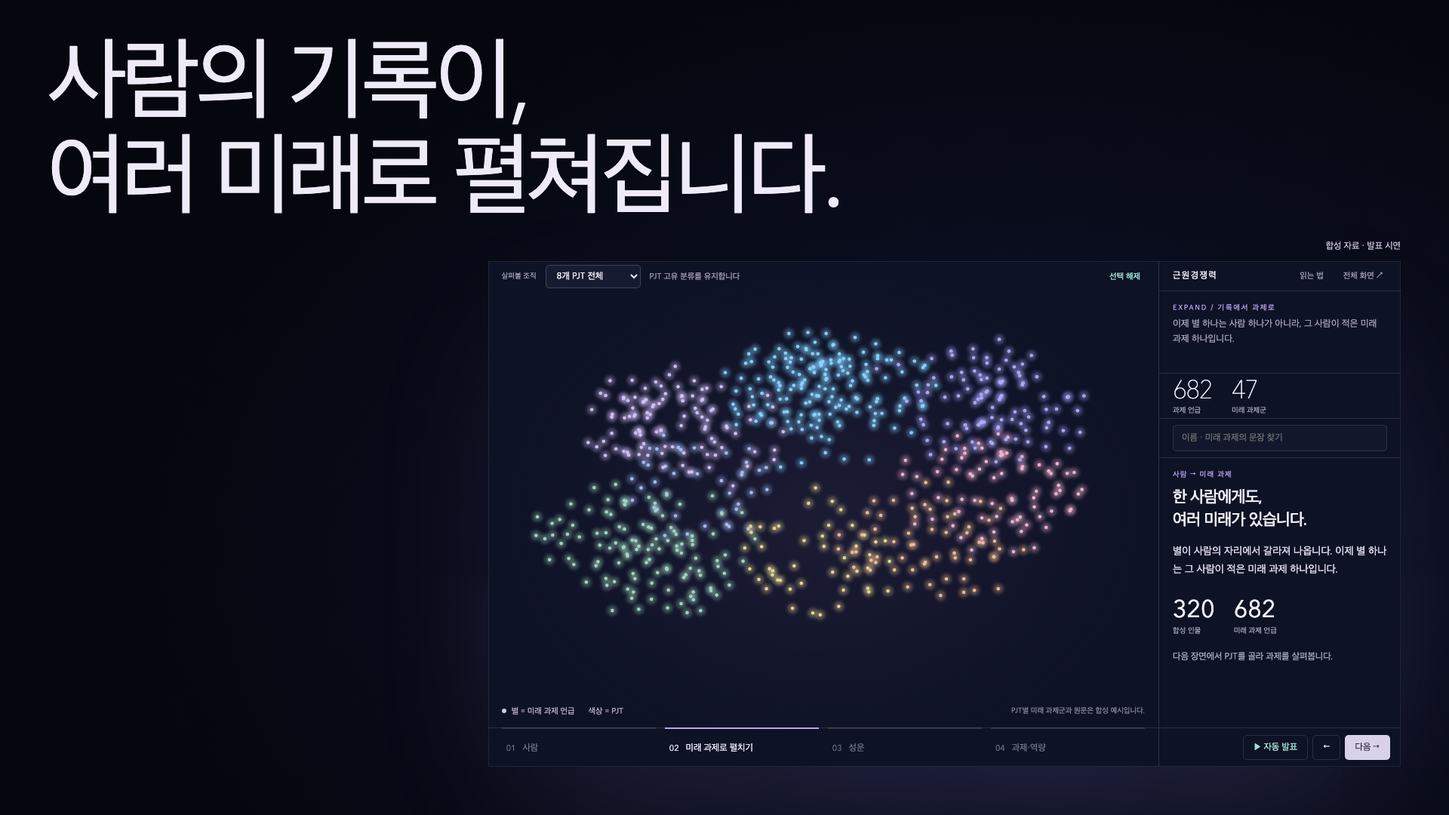
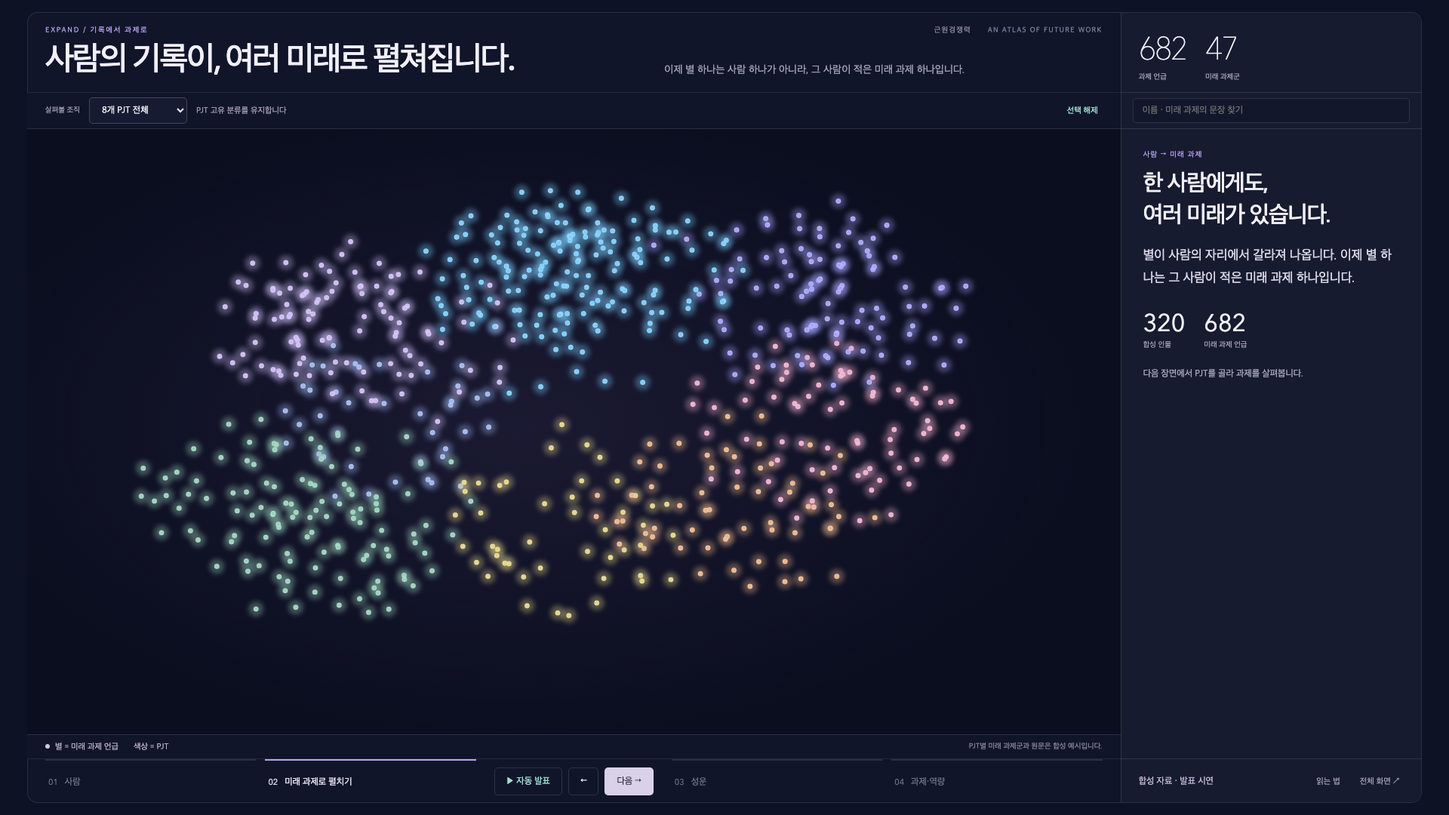
engine-opus round2 재시도: 「작업 현장」 — UI를 지도 이음매에 밀착, 클릭 반경 10.4→11.1px
15ab077 「초월적 여백」 폐기: 60% 여백이 지도를 71%로 줄여 클릭 반경이 7.4px로 줄었다.
템플릿을 15ab077^로 되돌린 뒤 live 레이아웃을 새로 썼다.

- nebula.html: @media(min-width:1001px) body:not(.story) 블록 하나. 카드 한 장 안에
  문장 띠(윗변) · 툴바 띠 · 지도 · 범례/각주 띠 · 트레이(단계 01 02 [조작] 03 04) + 레일
  (숫자 · 검색 · 패널 · 합성 표시/읽는 법/전체 화면). 오버레이 HUD 없음.
- 1920×1080 지도 1245×747 → 1337×802, 1600·1366에서도 기존 이상.
- JS 1줄: #synthetic-mark live에서도 표시.
- story 모드 규칙 무수정 — story 9비트 스크린샷 원래 템플릿과 바이트 동일.
- round2 README + 5컷(1920×1080) 교체.

diff --git a/nebula/templates/nebula.html b/nebula/templates/nebula.html
@@ -1,24 +1,47 @@
 <!doctype html><html lang="ko"><head><meta charset="utf-8"><meta name="viewport" content="width=device-width,initial-scale=1"><title>아직 오지 않은 일들 — 미래 과제의 성운</title>
 <style>
-:root{--bg:#0e1225;--void:#05060e;--text:#f1eff8;--sub:#a19eb8;--line:#ffffff20;--violet:#b8a3ed;--mint:#a1dfd0;--rose:#eeb3ce;--font:"Apple SD Gothic Neo","Malgun Gothic",sans-serif;--display:"Avenir Next",var(--font);--m:clamp(28px,3.34vw,64px);--h:62dvh;--rail:320px}*{box-sizing:border-box}body{margin:0;background:var(--bg);color:var(--text);font:14px var(--font)}button,input,select{font:inherit}button,select{cursor:pointer}button{color:inherit;border:0;background:none}button:hover{filter:brightness(1.25)}button:focus-visible,select:focus-visible,input:focus-visible,summary:focus-visible{outline:2px solid var(--mint);outline-offset:4px}button:disabled{opacity:.3;cursor:default}.brand{letter-spacing:.12em;font-size:12px}.brand span{display:none}.actions{display:flex;align-items:center;gap:14px}.badge{font-size:10px;color:#d0bfdc;border:1px solid #cbb9e848;padding:5px 9px;border-radius:20px}body:has(#synthetic-mark:not([hidden])) .badge{display:none}.actions button{font-size:11px;color:var(--sub)}select{background:#171b31;color:var(--text);padding:6px 28px 6px 10px;border:1px solid #bdb3dc44;border-radius:5px;font-size:12px;max-width:210px}svg{width:100%;height:100%;display:block;overflow:visible}.world{transform-origin:0 0;transition:transform 2s cubic-bezier(.22,.75,.18,1)}.person,.task{cursor:pointer;transition:transform 1.65s cubic-bezier(.22,.75,.18,1),opacity .7s}.person circle{stroke:#fffc;stroke-width:.5}.person text,.task text{font:12px var(--font);fill:#f1eff8;paint-order:stroke;stroke:#17182d;stroke-width:4px;pointer-events:none}.task .core{stroke:#fff8;stroke-width:.55}.task.selected .core{stroke:white;stroke-width:2;r:6}.task .hit{fill:transparent}.task:focus-visible .core,.person:focus-visible circle{stroke:white;stroke-width:3}.fog{transition:opacity 1s;pointer-events:none}.nebula-label{cursor:pointer;transition:opacity .6s}.nebula-label text{font:14px var(--font);fill:#d9d2ee;paint-order:stroke;stroke:#16162c;stroke-width:4px}.nebula-label .tiny{font-size:10px;fill:#aaa0bd}.nebula-label:hover text{fill:white}.time-ring{fill:none;stroke:#afa8d238;stroke-width:1;stroke-dasharray:3 7}.time-label{fill:#b0a3c6;font:12px var(--font)}.origin{fill:#ded6ef;font:11px var(--font)}.skill{cursor:pointer}.skill text{font:14px var(--font);fill:var(--text);text-anchor:middle}.skill .small{font-size:11px;fill:#afb7c5}.skill-line{stroke:#b4c6d844;stroke-width:1;fill:none}.skill:hover .bubble,.skill:focus-visible .bubble{stroke:white;stroke-width:2.5}.skill .number{font:400 28px var(--display)}.tooltip{position:absolute;background:#eeebf5;color:#242138;max-width:300px;padding:10px 14px;font-size:12px;line-height:1.6;pointer-events:none;border-radius:5px;box-shadow:0 10px 40px #0006;z-index:9}.kicker{font-size:10px;color:var(--violet);letter-spacing:.12em;margin-bottom:10px}.panel h2{font-size:22px;line-height:1.35;font-weight:500;letter-spacing:-.04em;margin:0 0 11px;word-break:keep-all}.panel p{font-size:12px;color:#aaaac0;line-height:1.8}.panel h3{font-size:12px;font-weight:500;margin:20px 0 8px}.panel .large{font-size:14px;color:#d9d6e5;line-height:1.75}.row{width:100%;text-align:left;padding:11px 0;border-top:1px solid var(--line);border-radius:0;display:flex;align-items:center;gap:10px}.row .dot{height:6px;width:6px;border-radius:50%;flex-shrink:0}.row b{font-weight:500;font-size:12px;flex:1;line-height:1.6}.row small{font-size:10px;color:#89879e;display:block}.row .count{color:#c6badb;font:15px var(--display)}.chip{display:inline-block;font-size:10px;color:#d1c5e3;padding:5px 8px;border:1px solid #aaa0bc44;border-radius:4px;margin:0 5px 7px 0}.quote{margin:15px 0 10px;font-size:16px;line-height:1.8;letter-spacing:-.025em;border-left:2px solid var(--violet);padding-left:12px}.evidence{margin:16px 0;border:1px solid #9ad9ca33;border-radius:7px;padding:12px;background:#9ad9ca08}.evidence.gap{border-color:#eeb3ce33;background:#eeb3ce08}.evidence h3{margin:0 0 9px;color:var(--mint)}.evidence.gap h3{color:var(--rose)}.evidence p{margin:0;color:#cecadb;font-size:13px}.micro{font-size:10px!important;color:#87879f!important;line-height:1.75!important}.back{font-size:11px;color:var(--mint);padding:0 0 16px}.panel details{border-top:1px solid var(--line);padding-top:12px;margin-top:15px;font-size:11px;color:#a9a6bf;line-height:1.8}.panel summary{cursor:pointer}.raw{white-space:pre-wrap}.empty{padding:25px 0;color:var(--sub)}.overview-metric{display:flex;gap:25px;margin:18px 0}.overview-metric b{font:32px var(--display);font-weight:400}.overview-metric small{display:block;color:var(--sub);font-size:10px}.bar{height:3px;background:#ffffff13;margin:9px 0 18px}.bar i{height:100%;display:block;background:var(--violet)}
-dialog{background:#20233b;color:var(--text);border:1px solid var(--line);border-radius:10px;width:min(610px,90vw);padding:30px;line-height:1.9}dialog::backdrop{background:#06091bc9}dialog h2{font-size:23px}dialog p{font-size:13px;color:#c2bdd1}dialog button{background:#d9d1e8;color:#252036;padding:10px 22px;border-radius:5px;float:right}
-/* 초월적 여백 — the void (upper and left, ~60%) holds only the scene sentence; every control and the map sit in one lit block, lower right. */
-body:not(.story) .app{height:100dvh;display:grid;grid-template-columns:minmax(0,1fr) calc((var(--h) - 136px)*5/3) var(--rail) var(--m);grid-template-rows:minmax(0,1fr) 40px 28px 80px 60px minmax(0,calc(var(--h) - 260px)) 52px var(--m);background:radial-gradient(ellipse 62% 74% at 70% 68%,#171b3a,#0a0d1d 52%,var(--void))}
-body:not(.story) .app::before{content:'';grid-area:2/2/8/4;background:var(--bg);border:1px solid #ffffff14;box-shadow:0 70px 200px -50px #b8a3ed2e}
-.hero,.hero>div:first-child,footer,body:not(.story) .workspace{display:contents}
-h1{grid-area:1/1/2/4;align-self:end;margin:0;padding:0 0 calc(var(--m)*.72) var(--m);font:400 clamp(52px,6.2vw,132px)/1.06 var(--display);letter-spacing:-.045em;color:#eeeaf8;word-break:keep-all}h1 span{display:block}
-header{grid-area:2/3/3/4;display:flex;align-items:center;justify-content:space-between;padding:0 18px;border-bottom:1px solid var(--line)}.eyebrow{grid-area:3/3/4/4;align-self:end;padding:0 18px;font-size:10px;letter-spacing:.17em;color:var(--violet)}.hero p{grid-area:4/3/5/4;margin:0;padding:6px 18px 0;font-size:12.5px;line-height:1.6;color:var(--sub);word-break:keep-all;overflow:hidden}.numbers{grid-area:5/3/6/4;display:flex;align-items:center;gap:26px;padding:0 18px;border-top:1px solid var(--line)}.numbers strong{font:300 34px/1 var(--display);letter-spacing:-.05em}.numbers small{display:block;font-size:10px;color:var(--sub);margin-top:4px}
-.universe{position:relative;min-width:0;min-height:0;overflow:hidden;background:radial-gradient(ellipse at 50% 55%,#25223f99,transparent 68%)}body:not(.story) .universe{grid-area:2/2/7/3;border-right:1px solid var(--line)}body:not(.story) #sky{height:calc(100% - 84px);margin-top:40px}.toolbar{position:absolute;top:0;left:18px;right:18px;height:40px;display:flex;align-items:center;gap:12px;z-index:3}.toolbar label{font-size:10px;color:var(--sub)}.toolbar .scope{color:#a69bb9;font-size:11px;white-space:nowrap;overflow:hidden;text-overflow:ellipsis}.toolbar button{font-size:11px;color:var(--mint);white-space:nowrap}.legend{position:absolute;bottom:0;left:18px;height:44px;display:flex;align-items:center;gap:18px;font-size:11px;color:#b9afcb;pointer-events:none}.legend i{display:inline-block;width:6px;height:6px;background:#d1c5ee;border-radius:50%;margin-right:7px;vertical-align:1px}.legend .ring{background:none;border:1.5px solid var(--rose);width:11px;height:11px;vertical-align:-1px}.legend .fill{width:11px;height:11px;background:var(--mint);vertical-align:-1px}.footnote{position:absolute;bottom:22px;right:18px;transform:translateY(50%);max-width:62%;text-align:right;font-size:10px;line-height:1.5;color:#88839f;pointer-events:none}
-.inspector{grid-area:6/3/7/4;display:flex;flex-direction:column;min-height:0}.search{padding:8px 18px;border-top:1px solid var(--line);border-bottom:1px solid var(--line)}.search input{width:100%;background:#12172b;border:1px solid #aaa5c330;border-radius:5px;padding:9px 11px;color:var(--text);font-size:12px}.panel{padding:16px 18px 18px;overflow:auto;flex:1}
-.steps{grid-area:7/2/8/3;display:flex;gap:12px;padding:0 18px;border-top:1px solid var(--line);border-right:1px solid var(--line)}.step{border-top:2px solid #ffffff1e;margin-top:-1px;flex:1;text-align:left;color:#75788f;display:flex;gap:9px;align-items:center;font-size:12px}.step.active{border-color:var(--violet);color:#e9e4f5}.step span{font:11px var(--display)}.controls{grid-area:7/3/8/4;display:flex;gap:6px;align-items:center;justify-content:flex-end;padding:0 14px;border-top:1px solid var(--line)}.controls button{font-size:12px;padding:8px 13px;border:1px solid var(--line);border-radius:5px}.controls #next{background:#d9d1e8;color:#252036}.controls #play{color:var(--mint)}
-body:not(.story) #pjt-back{top:48px;left:18px}body:not(.story) #synthetic-mark{top:auto;bottom:calc(var(--m) + var(--h) + 12px);right:var(--m)}
-/* Too small for a void: stack everything in DOM order and let the page scroll. */
-@media(max-width:1180px),(max-height:760px){body:not(.story) .app{display:flex;flex-direction:column;height:auto;min-height:100dvh}body:not(.story) .app::before{content:none}h1{padding:28px var(--m) 20px;font-size:clamp(30px,6vw,56px)}header{padding:12px var(--m)}.eyebrow,.hero p,.numbers,.search,.panel,.steps,.controls{padding-left:var(--m);padding-right:var(--m)}.numbers{padding-block:12px}body:not(.story) .universe{height:min(76vw,560px);flex:none;border-right:0}.inspector{min-height:380px}.panel{max-height:520px}.steps{min-height:52px;border-right:0}.step{font-size:10px;gap:4px}.controls{justify-content:flex-start;padding-block:10px}.toolbar .scope{display:none}body:not(.story) #synthetic-mark{position:absolute;top:14px;bottom:auto}}
+:root{--bg:#0e1225;--text:#f1eff8;--sub:#a19eb8;--line:#ffffff20;--violet:#b8a3ed;--mint:#a1dfd0;--rose:#eeb3ce;--font:"Apple SD Gothic Neo","Malgun Gothic",sans-serif;--display:"Avenir Next",var(--font)}*{box-sizing:border-box}body{margin:0;background:var(--bg);color:var(--text);font:14px var(--font)}button,input,select{font:inherit}button,select{cursor:pointer}button{color:inherit;border:0;background:none}button:hover{filter:brightness(1.25)}button:focus-visible,select:focus-visible,input:focus-visible,summary:focus-visible{outline:2px solid var(--mint);outline-offset:4px}button:disabled{opacity:.3;cursor:default}.app{height:100dvh;min-height:760px;display:grid;grid-template:62px 164px minmax(0,1fr) 84px/minmax(0,1fr)}header{display:flex;align-items:center;justify-content:space-between;padding:0 32px;border-bottom:1px solid var(--line)}.brand{letter-spacing:.12em;font-size:12px}.brand span{margin-left:18px;color:#7d829d;font-size:10px}.actions{display:flex;align-items:center;gap:14px}.badge{font-size:10px;color:#d0bfdc;border:1px solid #cbb9e848;padding:6px 10px;border-radius:20px}.actions button{font-size:11px;color:var(--sub)}.hero{padding:25px 32px 22px;display:flex;justify-content:space-between;gap:24px;align-items:center}.eyebrow{font-size:10px;letter-spacing:.17em;color:var(--violet);margin-bottom:10px}h1{font:500 clamp(32px,3.35vw,54px)/1.18 var(--display);letter-spacing:-.055em;margin:0;word-break:keep-all}.hero p{font-size:14px;color:var(--sub);margin:12px 0 0;line-height:1.65}.numbers{display:flex;gap:25px;text-align:right;flex-shrink:0}.numbers strong{font:300 48px var(--display);letter-spacing:-.06em}.numbers small{display:block;font-size:10px;color:var(--sub);margin-top:2px}.workspace{display:grid;grid-template-columns:minmax(0,1fr) 336px;min-height:0;border-top:1px solid var(--line)}.universe{position:relative;min-width:0;min-height:0;overflow:hidden;background:radial-gradient(ellipse at 45% 46%,#25223f99,transparent 66%)}.toolbar{position:absolute;top:17px;left:25px;right:24px;display:flex;align-items:center;gap:12px;z-index:3;flex-wrap:wrap}.toolbar label{font-size:10px;color:var(--sub)}select{background:#171b31;color:var(--text);padding:8px 30px 8px 12px;border:1px solid #bdb3dc44;border-radius:5px;font-size:12px;max-width:240px}.toolbar .scope{color:#a69bb9;font-size:11px}.toolbar .spacer{flex:1}.toolbar button{font-size:11px;color:var(--mint)}svg{width:100%;height:100%;display:block;overflow:visible}.world{transform-origin:0 0;transition:transform 2s cubic-bezier(.22,.75,.18,1)}.person,.task{cursor:pointer;transition:transform 1.65s cubic-bezier(.22,.75,.18,1),opacity .7s}.person circle{stroke:#fffc;stroke-width:.5}.person text,.task text{font:12px var(--font);fill:#f1eff8;paint-order:stroke;stroke:#17182d;stroke-width:4px;pointer-events:none}.task .core{stroke:#fff8;stroke-width:.55}.task.selected .core{stroke:white;stroke-width:2;r:6}.task .hit{fill:transparent}.task:focus-visible .core,.person:focus-visible circle{stroke:white;stroke-width:3}.fog{transition:opacity 1s;pointer-events:none}.nebula-label{cursor:pointer;transition:opacity .6s}.nebula-label text{font:14px var(--font);fill:#d9d2ee;paint-order:stroke;stroke:#16162c;stroke-width:4px}.nebula-label .tiny{font-size:10px;fill:#aaa0bd}.nebula-label:hover text{fill:white}.time-ring{fill:none;stroke:#afa8d238;stroke-width:1;stroke-dasharray:3 7}.time-label{fill:#b0a3c6;font:12px var(--font)}.origin{fill:#ded6ef;font:11px var(--font)}.skill{cursor:pointer}.skill text{font:14px var(--font);fill:var(--text);text-anchor:middle}.skill .small{font-size:11px;fill:#afb7c5}.skill-line{stroke:#b4c6d844;stroke-width:1;fill:none}.skill:hover .bubble,.skill:focus-visible .bubble{stroke:white;stroke-width:2.5}.skill .number{font:400 28px var(--display)}.footnote{position:absolute;bottom:18px;left:25px;right:20px;font-size:10px;line-height:1.8;color:#88839f;pointer-events:none}.legend{position:absolute;bottom:61px;left:25px;display:flex;gap:20px;font-size:11px;color:#b9afcb;pointer-events:none}.legend i{display:inline-block;width:6px;height:6px;background:#d1c5ee;border-radius:50%;margin-right:7px;vertical-align:1px}.legend .ring{background:none;border:1.5px solid var(--rose);width:11px;height:11px;vertical-align:-1px}.legend .fill{width:11px;height:11px;background:var(--mint);vertical-align:-1px}.tooltip{position:absolute;background:#eeebf5;color:#242138;max-width:300px;padding:10px 14px;font-size:12px;line-height:1.6;pointer-events:none;border-radius:5px;box-shadow:0 10px 40px #0006;z-index:9}.inspector{background:#191d32;border-left:1px solid var(--line);display:flex;flex-direction:column;min-height:0}.search{padding:17px 20px;border-bottom:1px solid var(--line)}.search input{width:100%;background:#12172b;border:1px solid #aaa5c330;border-radius:5px;padding:11px;color:var(--text);font-size:12px}.panel{padding:23px 24px;overflow:auto;flex:1}.kicker{font-size:10px;color:var(--violet);letter-spacing:.12em;margin-bottom:12px}.panel h2{font-size:27px;line-height:1.35;font-weight:500;letter-spacing:-.045em;margin:0 0 13px;word-break:keep-all}.panel p{font-size:12px;color:#aaaac0;line-height:1.85}.panel h3{font-size:12px;font-weight:500;margin:25px 0 10px}.panel .large{font-size:15px;color:#d9d6e5;line-height:1.8}.row{width:100%;text-align:left;padding:13px 0;border-top:1px solid var(--line);border-radius:0;display:flex;align-items:center;gap:10px}.row .dot{height:6px;width:6px;border-radius:50%;flex-shrink:0}.row b{font-weight:500;font-size:12px;flex:1;line-height:1.6}.row small{font-size:10px;color:#89879e;display:block}.row .count{color:#c6badb;font:15px var(--display)}.chip{display:inline-block;font-size:10px;color:#d1c5e3;padding:5px 8px;border:1px solid #aaa0bc44;border-radius:4px;margin:0 5px 7px 0}.quote{margin:17px 0 12px;font-size:18px;line-height:1.85;letter-spacing:-.025em;border-left:2px solid var(--violet);padding-left:14px}.evidence{margin:18px 0;border:1px solid #9ad9ca33;border-radius:7px;padding:14px;background:#9ad9ca08}.evidence.gap{border-color:#eeb3ce33;background:#eeb3ce08}.evidence h3{margin:0 0 9px;color:var(--mint)}.evidence.gap h3{color:var(--rose)}.evidence p{margin:0;color:#cecadb;font-size:13px}.micro{font-size:10px!important;color:#87879f!important;line-height:1.75!important}.back{font-size:11px;color:var(--mint);padding:0 0 20px}.panel details{border-top:1px solid var(--line);padding-top:12px;margin-top:17px;font-size:11px;color:#a9a6bf;line-height:1.8}.panel summary{cursor:pointer}.raw{white-space:pre-wrap}.empty{padding:25px 0;color:var(--sub)}.overview-metric{display:flex;gap:25px;margin:22px 0}.overview-metric b{font:32px var(--display);font-weight:400}.overview-metric small{display:block;color:var(--sub);font-size:10px}.bar{height:3px;background:#ffffff13;margin:9px 0 18px}.bar i{height:100%;display:block;background:var(--violet)}
+footer{padding:0 28px;display:flex;align-items:center;gap:24px;border-top:1px solid var(--line);background:#111529;z-index:5}.steps{display:flex;gap:12px;flex:1}.step{border-top:2px solid #ffffff1e;flex:1;text-align:left;padding:12px 0 0;color:#75788f;display:flex;gap:9px;align-items:center;font-size:12px}.step.active{border-color:var(--violet);color:#e9e4f5}.step span{font:11px var(--display)}.controls{display:flex;gap:8px}.controls button{font-size:12px;padding:10px 15px;border:1px solid var(--line);border-radius:5px}.controls #next{background:#d9d1e8;color:#252036}.controls #play{color:var(--mint)}dialog{background:#20233b;color:var(--text);border:1px solid var(--line);border-radius:10px;width:min(610px,90vw);padding:30px;line-height:1.9}dialog::backdrop{background:#06091bc9}dialog h2{font-size:23px}dialog p{font-size:13px;color:#c2bdd1}dialog button{background:#d9d1e8;color:#252036;padding:10px 22px;border-radius:5px;float:right}
+@media(min-width:1800px){.workspace{grid-template-columns:minmax(0,1fr) 390px}.panel{padding:28px 30px}.panel h2{font-size:31px}.panel .large{font-size:17px}.quote{font-size:21px}.app{grid-template-rows:66px 178px minmax(0,1fr) 88px}}
+@media(max-width:1000px){.workspace{grid-template-columns:minmax(0,1fr) 285px}.hero{padding:22px}.hero h1{font-size:35px}.numbers strong{font-size:36px}.panel{padding:20px}.step{font-size:10px}.controls button{padding:9px 10px}.toolbar .scope{display:none}}
+@media(max-width:700px){.app{height:auto;min-height:100dvh;grid-template-rows:56px auto 1fr auto}header{padding:0 17px}.brand span,.actions #full{display:none}.actions{gap:8px}.hero{padding:24px 18px;align-items:flex-start}.hero h1{font-size:29px}.hero p{font-size:12px}.numbers{gap:10px}.numbers strong{font-size:29px}.numbers div:last-child{display:none}.workspace{display:flex;flex-direction:column}.universe{height:490px}.toolbar{left:16px;right:16px;gap:8px}select{max-width:210px}.inspector{min-height:410px;border-left:0;border-top:1px solid var(--line)}.panel{max-height:510px}.legend{font-size:10px;gap:14px;left:17px}.footnote{left:17px;font-size:9px}footer{position:sticky;bottom:0;padding:12px;flex-wrap:wrap;gap:12px}.steps{flex-basis:100%;gap:8px}.step{font-size:10px;gap:4px}.controls{margin-left:auto}.controls button{padding:7px 12px}.brand{font-size:10px}.badge{font-size:9px}.hero>div:first-child{min-width:0}}
 @media(prefers-reduced-motion:reduce){*,*::before,*::after{transition:none!important;animation:none!important}}
 .html-labels{position:absolute;inset:0;pointer-events:none}.html-labels button{position:absolute;transform:translate(-50%,-50%);pointer-events:auto;color:#d9d2ee;font-size:14px;text-align:center}.html-labels small{display:block;font-size:11px;color:var(--sub);margin-top:8px}
 .pjt-cell{border:1px solid #ffffff20;border-radius:8px;text-align:left!important;display:flex;flex-direction:column;justify-content:flex-start;padding:14px;background:#ffffff02}.pjt-cell.highlighted{border-color:var(--mint);background:#a1dfd010}.task.highlighted .core{stroke:#fff;stroke-width:1.8}
 #pjt-back{position:absolute;top:66px;left:25px;z-index:4;color:var(--mint)}#synthetic-mark{position:fixed;top:18px;right:24px;z-index:20;font-size:12px;color:#c7bbda;pointer-events:none}
 body.story .app{height:100dvh;min-height:0;display:block}body.story header,body.story .hero,body.story .inspector,body.story footer,body.story .toolbar,body.story .legend,body.story .footnote{display:none}body.story .workspace{display:block;height:100%;border:0}body.story .universe{height:100%;background:#080b16}body.story #pjt-back{top:24px}
+/* Live workspace: one card, the map in the middle, every control glued to one of the map's seams. */
+@media(min-width:1001px){
+body:not(.story){--padx:clamp(16px,1.9vw,36px);--pady:clamp(10px,1.5vh,16px);--rail:clamp(320px,20.8vw,400px);--strip:48px;--seam:1px solid #ffffff1c}
+body:not(.story) .app{position:relative;isolation:isolate;height:100dvh;min-height:640px;padding:var(--pady) var(--padx);grid-template:auto auto minmax(0,1fr) 58px/minmax(0,1fr) minmax(280px,34%) var(--rail)}
+body:not(.story) .app::before{content:"";grid-area:1/1/-1/-1;z-index:-1;border:var(--seam);border-radius:14px;background:#11152a}
+body:not(.story) .app::after{content:"";grid-area:1/3/-1/-1;z-index:-1;margin:1px 1px 1px 0;border-left:var(--seam);border-radius:0 13px 13px 0;background:#171b30}
+body:not(.story) header,body:not(.story) .hero,body:not(.story) .hero>div:first-child,body:not(.story) .workspace,body:not(.story) .steps{display:contents}
+body:not(.story) #eyebrow{grid-area:1/1;margin:0;padding:18px 24px 8px}
+body:not(.story) .brand{grid-area:1/2;justify-self:end;align-self:end;padding:0 24px 8px;font-size:10px;color:#8f8aa8}
+body:not(.story) h1{grid-area:2/1;align-self:end;padding:0 24px 16px;font-size:clamp(28px,2.3vw,44px)}
+body:not(.story) .hero p{grid-area:2/2;align-self:end;margin:0;padding:0 24px 18px;line-height:1.6}
+body:not(.story) .numbers{grid-area:1/3/3/4;align-self:end;justify-content:flex-start;text-align:left;padding:0 24px 14px}
+body:not(.story) .numbers strong{font-size:clamp(32px,2.2vw,44px)}
+body:not(.story) .universe{grid-area:3/1/4/3;display:grid;grid-template:var(--strip) minmax(0,1fr) auto/minmax(0,1fr) auto;border-block:var(--seam);background:radial-gradient(ellipse at 45% 50%,#25223f99,transparent 66%),#0b0e1f}
+body:not(.story) .universe::after{content:"";grid-area:3/1/4/3;border-top:var(--seam);background:#11152a}
+body:not(.story) .toolbar{position:static;grid-area:1/1/2/3;padding:0 24px;border-bottom:var(--seam);background:#11152a;flex-wrap:nowrap}
+body:not(.story) #sky{grid-area:2/1/3/3;min-height:0;overflow:hidden}
+body:not(.story) .legend,body:not(.story) .footnote{position:static;grid-row:3;align-self:center;z-index:1;padding:8px 24px}
+body:not(.story) .legend{grid-column:1}
+body:not(.story) .footnote{grid-column:2;text-align:right;line-height:1.6}
+body:not(.story) #pjt-back{top:0;left:auto;right:108px;height:var(--strip)}
+body:not(.story) .inspector{grid-area:3/3/4/4;background:none;border:0;border-block:var(--seam)}
+body:not(.story) .search{height:var(--strip);padding:0 16px;display:flex;align-items:center}
+body:not(.story) .search input{padding:8px 12px}
+body:not(.story) footer{grid-area:4/1/5/3;padding:0 24px;gap:12px;background:none;border:0}
+body:not(.story) .step{align-self:stretch;padding:0 4px}
+body:not(.story) .step:nth-child(n+3){order:3}
+body:not(.story) .controls{order:2;padding:0 12px}
+body:not(.story) .actions{grid-area:4/3;justify-content:flex-end;padding:0 24px}
+body:not(.story) #synthetic-mark{top:auto;right:auto;left:calc(100% - var(--padx) - var(--rail) + 24px);bottom:calc(var(--pady) + 21px)}
+body:not(.story) .app:has(~#synthetic-mark:not([hidden])) .badge{display:none}
+}
 </style></head><body><div class="app">
 <header><div class="brand">근원경쟁력 <span>AN ATLAS OF FUTURE WORK</span></div><div class="actions"><span class="badge">합성 자료로 보는 발표 시연</span><button id="about">읽는 법</button><button id="full">전체 화면 ↗</button></div></header>
 <section class="hero"><div><div class="eyebrow" id="eyebrow"></div><h1 id="title"></h1><p id="subtitle"></p></div><div class="numbers" id="numbers"></div></section>
@@ -154,7 +177,7 @@ for(const t of D.tasks){
 }
 $('links').style.opacity=S.scene===0?(S.person!==null?'.18':'1'):'0';$('links').style.transition='opacity .8s';for(const l of $('links').children){const a=people.get(+l.dataset.a),b=people.get(+l.dataset.b);l.style.display=S.pjt==='all'||a.pjt===+S.pjt&&b.pjt===+S.pjt?'':'none';}
 const sceneCopy=COPY['scene-'+S.scene]||{screen:[],sub:null};
-const caption=S.scene===3?4:S.scene;$('title').innerHTML=sceneCopy.screen.join(' ').split(/(?<=,) /).map(s=>`<span>${esc(s)}</span>`).join(' ');$('subtitle').textContent=sceneCopy.sub||'';$('eyebrow').textContent=['PROLOGUE / 사람의 기록','EXPAND / 기록에서 과제로','GATHER / PJT별 미래 과제','HORIZON / 원문에 적힌 시간','PREPARE / 과제와 역량'][caption];
+const caption=S.scene===3?4:S.scene;$('title').textContent=sceneCopy.screen.join(' ');$('subtitle').textContent=sceneCopy.sub||'';$('eyebrow').textContent=['PROLOGUE / 사람의 기록','EXPAND / 기록에서 과제로','GATHER / PJT별 미래 과제','HORIZON / 원문에 적힌 시간','PREPARE / 과제와 역량'][caption];
 const num=S.scene===0?ps.length:S.scene===3?ts.filter(t=>t.category===S.category).length:ts.length;const second=S.scene===0?ts.length:S.scene===3?new Set(ts.filter(t=>t.category===S.category).map(t=>t.person)).size:visibleCats().length;
 $('numbers').innerHTML=`<div><strong>${num}</strong><small>${S.scene===0?personLabel:'과제 언급'}</small></div><div><strong>${second}</strong><small>${S.scene===0?'미래 과제':S.scene===3?'작성자':'미래 과제군'}</small></div>`;
 $('scope').textContent=S.pjt==='all'?'PJT 고유 분류를 유지합니다':D.pjts[+S.pjt].name+'의 업무 언어로 읽습니다';

diff --git a/docs/q3-visual/engine-opus/round2/README.md b/docs/q3-visual/engine-opus/round2/README.md
@@ -1,72 +1,75 @@
-# engine-opus round2 — 「초월적 여백」 (Transcendent)
+# engine-opus round2 (재시도) — 「작업 현장」 (Workspace-first)
 
-지시서: `docs/engine-layout-round2-brief.md`, 구도 배정은 실행 프롬프트(`run-engine-opus.sh`)에서 받았다. 바꾼 파일은 `nebula/templates/nebula.html` 하나다. live 레이아웃 CSS를 새로 썼고 JS는 2줄만 고쳤다. engine-opus에는 round1 폴더가 없어서 비교 기준은 이 브랜치의 기존 템플릿과 round1 세 후보가 수렴한 "풀블리드 지도 + 오버레이 HUD"다.
+지시서는 `docs/engine-layout-round2-brief.md`이고, 구도는 재시도 프롬프트(`run-engine-opus-r2b.sh`)에서 받았다. 이전 커밋 15ab077 「초월적 여백」은 폐기했다. `nebula/templates/nebula.html`을 그 커밋 직전 상태(15ab077^)로 되돌린 뒤 live 레이아웃 CSS 블록을 새로 썼다. JS는 1줄만 고쳤다.
 
-## 구도 원리
+이 화면은 슬라이드가 아니라 작업 화면이다. 발표자가 300명 앞에서 별을 누르고, 검색하고, 다음 장면으로 넘긴다. 그래서 구도보다 조작 가능성을 먼저 봤다.
 
-1. **화면의 약 60%는 비워 둔다.** 위쪽 띠와 왼쪽 기둥이 이어진 L자 어둠에는 지도도, 버튼도, 별 배경도 없다.
-2. **여백에는 장면 문장 하나만 둔다.** 1920 기준 약 119px 글자를 쉼표에서 두 줄로 끊어 왼쪽 위에 놓는다. 눈은 그 문장에서 출발해 대각선 아래의 빛나는 블록으로 내려간다.
-3. **나머지는 오른쪽 아래 블록 하나에 촘촘히 모은다.** 지도, 장면 라벨, 숫자, 검색, 설명 패널, 단계, 조작이 한 블록에 들어가고, 화면의 빛은 이 블록에서만 난다. 클릭 대상 사이에는 여백을 끼우지 않는다.
+## 구도 원리 3줄
 
-## 왜 이 구도인가
+1. **클릭 반경이 줄어들면 실패다.** 지도는 발표자의 손이 닿는 화면 중앙~하단에 두고 기존 템플릿보다 크게 그린다. 1920×1080에서 과제 별의 클릭 반경은 10.4px에서 11.1px로 늘었다.
+2. **UI는 지도의 이음매(seam)에 붙인다.** 장면 문장은 지도 윗변, PJT 선택·해제는 지도 윗변 띠, 범례·각주는 아랫변 띠, 검색·설명·숫자는 오른쪽 변 레일, 이전·다음은 아랫변의 정중앙에 있다. 지도 위에 뜨는 HUD는 없다.
+3. **여백은 가장자리에만 조금 둔다.** 카드 바깥쪽 위아래 16px, 좌우 36px이 전부다. 이 여백은 커서가 화면 밖으로 미끄러지지 않게 하는 여유 공간이다.
 
-10m 스크린 앞 300명의 시선은 저절로 한 점에 모이지 않는다. 지도가 화면 전체를 채우면 사람마다 다른 구석을 본다. 화면 대부분을 어둡게 비우면 볼 곳이 하나만 남는다. 문장 하나와 빛나는 블록 하나다. 문장은 크고 혼자라서 먼저 읽히고, 블록은 유일한 광원이라 그다음에 보인다. 발표자가 별을 누르는 곳도 그 블록 안이다. 청중의 시선과 조작 지점이 같은 자리에 모인다.
+## 이전 시도(「초월적 여백」) 대비 근본적 차이 3줄
 
-70% 비움에서 60%로 줄인 이유는 조작 때문이다. 지도가 너무 작아지면 320명 규모에서 사람 별을 정확히 누르기 어렵다. 그래서 비율보다 블록 안 밀도를 우선했다. 블록 가장자리에 여유를 두지 않고 지도와 레일을 맞붙였다.
+1. **여백 실패의 교훈 — 여백은 클릭할 수 없는 영역이다.** 이전 시도는 화면의 60%를 비워 시선을 모았지만, 대가로 지도가 선 길이 기준 71%(889×534)로 줄고 클릭 반경이 10px에서 7.4px로 쪼그라들었다. 이번에는 비율이 아니라 클릭 반경을 먼저 고정하고, 남는 면적을 UI 띠에 나눠 줬다. 지도는 1337×802이고 이전 시도의 1.5배다.
+2. **시선이 가는 방향이 반대다.** 이전에는 왼쪽 위 문장에서 오른쪽 아래 블록으로 시선을 대각선으로 멀리 보냈다. 이번에는 모든 요소가 지도 둘레 한 겹 안에 있어서 시선이 지도 중심에서 멀리 가지 않는다. 발표자가 가장 자주 누르는 `다음 →`은 지도 아랫변 중앙(x≈760, 지도 열 중심 760)에 있어서 커서와 관객의 시선이 같은 곳에 머문다.
+3. **round1과 기존 템플릿은 "지도 + 떠 있는 UI", 이번은 "지도와 한 몸인 UI"다.** round1 후보는 지도를 키우고 툴바·범례·각주를 지도 위에 절대 위치로 띄웠다. 기존 템플릿은 헤더·단계 막대를 화면 위아래 끝에 붙였다. 이번에는 툴바와 범례를 지도의 윗변·아랫변 **띠**로 바꿨고, 검색창 높이(48px)를 툴바 띠와 맞춰 두 이음매가 한 선으로 이어진다. 헤더 행을 없애고, 브랜드는 문장 띠에, 읽는 법·전체 화면·합성 표시는 레일 아랫칸에 넣었다. 5컷 모두에서 지도 내용 영역과 겹치는 UI 상자는 0개다.
 
-## round1과 근본적으로 다른 점
+## 측정 (합성 픽스처 `nebula/fixtures/q3/`, live 모드)
 
-1. **빈 곳이 주인공이다.** round1은 화면 전체를 지도로 채우고 남은 곳에 UI를 띄웠다. round2는 먼저 비울 곳을 정하고 남은 40%에 지도와 UI를 함께 넣는다. 지도는 배경이 아니라 어둠 속에 놓인 물체다.
-2. **글자와 별이 한 픽셀도 겹치지 않는다.** round1의 HUD는 지도 위에 얹혔다. round2에서 장면 문장은 지도가 없는 영역에만 있고, 나머지 글자는 지도 옆 레일에만 있다. 오버레이는 툴팁과 PJT 격자 칸처럼 원래 지도에 붙어야 하는 것만 남겼다.
-3. **시선의 경로가 정해져 있다.** round1은 시선이 중앙에서 가장자리로 흩어졌다. round2는 왼쪽 위 문장에서 오른쪽 아래 블록으로 향하는 대각선 한 방향이다. 다섯 장면 모두 문장 자리와 블록 자리가 같고 문장 내용만 바뀐다.
+클릭 반경 = SVG 배율 × viewBox 반지름(과제 `.hit` r=10, 사람 발광 원 r=12). 기존 템플릿은 15ab077^, 이전 시도 값은 폐기된 README의 수치다.
 
-## 5컷
+| 뷰포트 | 기존 템플릿 | 이전 시도 「초월적 여백」 | 이번 「작업 현장」 |
+|---|---|---|---|
+| 1920×1080 지도 | 1245×747 | 약 889×534 | **1337×802** |
+| 1920×1080 과제 / 사람 클릭 반경 | 10.38 / 12.45px | 약 7.4px | **11.14 / 13.37px** |
+| 1600×1000 과제 클릭 반경 | 9.57px | — | **10.05px** |
+| 1366×768 과제 클릭 반경 | 6.35px | — | **7.00~7.14px** |
 
-`shots/after-*.png`는 합성 픽스처 `nebula/fixtures/q3/`(320명, 예시 인물 P000)를 live 모드 1920×1080으로 찍은 것이다. 각 동작 뒤 2.2초 기다려 전환이 끝난 뒤 찍었다.
+1920·1600 두 크기의 5컷 모두에서 지도 내용 영역(viewBox 사각형)과 교차하는 UI 상자(툴바·범례·각주·문장·숫자·검색·패널·단계·조작·합성 표시)는 없다. 페이지 오류 0, 외부 요청 0, 스크롤 없음.
+
+## 5컷 (`shots/after-*.png`, 1920×1080, 동작 후 2.2초 대기)
 
 | 파일 | 장면 | 이 컷에서 보이는 원리 |
 |---|---|---|
-| `after-0-people` | 장면 0 사람 | L자 여백 + 문장 하나 + 오른쪽 아래 블록 |
-| `after-1-closeup` | P000 클로즈업(분열 후) | 확대와 인물 과제 목록이 둘 다 블록 안에서 끝남 |
-| `after-2-split` | 장면 1 분열 | 같은 자리, 문장만 교체 |
-| `after-3-grid` | 장면 2 PJT 격자 | 격자 칸(클릭 대상)이 블록 안에 촘촘히 |
-| `after-4-pjt-nebula` | P000의 PJT 성운 | PJT 진입 후에도 구도 유지 |
-
-블록(UI 요소 전체의 외접 사각형, `#synthetic-mark` 포함)이 화면에서 차지하는 비율은 1920×1080에서 **37.6%(여백 62.4%)**, 1600×1000에서 41.9%다. 다섯 컷 모두 같다. 페이지 오류 0, 외부 요청 0.
+| `after-0-people` | 장면 0 사람 | 지도 둘레 네 이음매에 UI가 붙은 기본 구도 |
+| `after-1-closeup` | P000 클로즈업(분열 후) | 확대된 별이 지도 사각형 안에서 잘리고 띠 아래로 번지지 않음. 인물 과제 목록은 오른쪽 이음매 레일에 |
+| `after-2-split` | 장면 1 분열 | 같은 틀. 숫자와 문장만 바뀜 |
+| `after-3-grid` | 장면 2 PJT 격자 | 격자 칸(클릭 대상)이 지도 한가운데. 격자 목록은 바로 옆 레일에 |
+| `after-4-pjt-nebula` | P000의 PJT 성운 | `← PJT 격자로`가 지도 윗변 띠의 `선택 해제` 옆에 붙음 |
 
 ## 무엇을 바꿨나
 
-| 요소 | 기존 템플릿 | round2 |
+모든 규칙은 `@media(min-width:1001px)` 안에서 `body:not(.story)`로 한정했다. story 모드 규칙과 1000px 이하 반응형 규칙은 그대로다.
+
+| 요소 | 기존 템플릿 | 「작업 현장」 |
 |---|---|---|
-| 뼈대 | 헤더 / hero / 지도+인스펙터 / 푸터 4단 격자 | `.app` 4열×8행 격자. 1행·1열은 여백, `--h:62dvh` 높이 블록은 오른쪽 아래, 바깥 여백은 `--m` |
-| 블록 배경 | 없음 | `.app::before`가 블록 칸에 깔려 유일한 광원 역할(테두리 + 보라 그림자) |
-| 장면 문장 `h1` | hero 안 54px | 여백 칸 전체(`grid-area:1/1/2/4`) 아래쪽 정렬, `clamp(52px,6.2vw,132px)`, weight 400 |
-| eyebrow · 보조 문장 · 숫자 | hero 안 | `.hero{display:contents}`로 풀어 레일 위 세 칸에 배치 |
-| 지도 | 가운데 넓게 | 지도 열 너비 = `(--h − 136px) × 5/3`(viewBox 비율). 위 40px 툴바, 아래 44px 범례·각주 줄과 겹치지 않도록 `#sky` 높이를 줄임 |
-| 인스펙터 | 오른쪽 390px | 레일 320px 아래 칸, 검색 + 스크롤 패널 |
-| 단계 · 조작 | 맨 아래 전폭 | `footer{display:contents}`로 풀어 지도 열 아래 · 레일 아래 |
-| 배지 | 헤더 | `#synthetic-mark`가 보이면 `:has()`로 숨김(같은 말을 두 번 하지 않도록). 실데이터 배지는 그대로 표시 |
-| `#synthetic-mark` | story 모드에서만 | live에서도 표시(성역 규칙). 블록 오른쪽 위 모서리 바로 위에 캡션처럼 붙임 |
-| 작은 화면 | 1000/700px 미디어쿼리 | 가로 1180px 이하 또는 세로 760px 이하에서는 여백을 포기하고 DOM 순서대로 쌓아 스크롤 |
+| 뼈대 | 화면 끝까지 닿는 헤더 / hero / 지도+인스펙터 / 푸터 4단 | 모서리가 둥근 카드 하나. 3열(문장 · 보조 문장 · 레일 `--rail`) × 4행(eyebrow · 문장 · 지도 · 트레이). `header`·`.hero`·`.workspace`·`.steps`는 `display:contents` |
+| 장면 문장 | hero 안 54px, 오른쪽 끝에 숫자 | 지도 윗변에 붙인 띠. `h1` 44px. 보조 문장은 같은 띠 가운데, 브랜드는 그 위 |
+| 툴바 | 지도 위 절대 위치 오버레이 | `.universe` 내부 격자 1행의 48px 띠 |
+| 범례 · 각주 | 지도 위 절대 위치 오버레이 | `.universe` 내부 격자 3행의 띠(범례 왼쪽, 각주 오른쪽) |
+| `#sky` | `overflow:visible`, universe 전체로 번짐 | live에서만 `overflow:hidden`. 확대된 별이 띠를 가리지 않음 |
+| 숫자 | hero 오른쪽 끝 | 레일 머리칸(지도 오른쪽 위 모서리 옆) |
+| 검색 · 설명 패널 | 오른쪽 390px 인스펙터 | 레일. 검색창 띠는 툴바 띠와 같은 48px 높이로 이음매를 맞춤 |
+| 단계 · 조작 | 화면 맨 아래 전폭, 조작은 오른쪽 끝 | 지도 아랫변 트레이. `01 02 [▶ ← 다음→] 03 04` 순서(`order`)로 조작이 지도 중심 아래 |
+| 배지 · 읽는 법 · 전체 화면 | 헤더 오른쪽 끝 | 레일 아랫칸. 합성 표시가 보이면 배지는 `:has()`로 숨김(같은 말 반복 방지). 실데이터 배지는 그대로 표시 |
+| `#synthetic-mark` | story 모드에서만 | live에서도 표시(성역 규칙). 레일 아랫칸 왼쪽 |
+| `#pjt-back` | 지도 왼쪽 위 오버레이 | 툴바 띠 오른쪽, `선택 해제` 옆 |
 
-story 모드 규칙(`body.story …`)은 한 글자도 바꾸지 않았다. `.app`·`.workspace`·`.universe`·`#sky`·`#pjt-back`·`#synthetic-mark`처럼 story 모드와 함께 쓰는 요소의 새 규칙은 모두 `body:not(.story)`로 한정했다.
+**JS 1줄**: `#synthetic-mark`의 `hidden=!(S.mode==='story'&&D.synthetic)` → `hidden=!D.synthetic`.
+`window.nebula`, `nebulaCopy`, 페이로드, 테스트 셀렉터(`.step.active`, `#sky g.task/g.person/g.skill`, `[data-pjt-cell]`, `#panel`, `#search`)는 그대로다.
 
-**JS 2줄**
-- `#title`: 장면 문장을 `", "` 뒤에서 `<span>`으로 나눠 쉼표 자리에서 줄을 바꾼다. 조각을 `' '`로 다시 이어 붙이므로 `textContent`는 이전과 같다(`q3_story_check`의 live 단언). CSS만으로는 쉼표에서 끊을 수 없다. `text-wrap:balance`는 "사람의 기록이, 여러 / 미래로 펼쳐집니다."처럼 끊는다.
-- `#synthetic-mark`: `hidden=!(story && synthetic)` → `hidden=!synthetic`.
+## 한계
 
-`window.nebula`, `nebulaCopy`, 페이로드, 테스트 셀렉터는 그대로다.
-
-## 알려진 한계
-
-- **지도가 작아졌다.** 1920×1080에서 지도는 약 889×534px로, 기존 템플릿(약 1246×748)의 선 길이 기준 71%다. 과제 별의 클릭 반경은 10 → 약 7.4px, 장면 3 역량 원 안의 SVG 글자는 약 10px로 줄었다. 레일 목록과 검색으로 같은 대상을 고를 수 있지만, 사람 별을 직접 겨누는 조작은 기존보다 어렵다.
-- **여백 칸에는 두 줄까지만 들어간다.** 1920 기준 여백 높이는 346px이고 119px 두 줄은 약 250px다. `deck.md`의 장면 문장에 쉼표가 두 개 이상 생기면 세 줄이 되어 블록 윗변에 닿는다. 지금 scene-0~3 문장은 쉼표가 모두 하나다.
-- **블록이 화면 아래쪽에 있다.** 경사가 없는 강당에서는 앞사람 머리에 블록 아랫부분(단계·조작 줄)이 가릴 수 있다. 가려지는 줄은 발표자용이라 청중이 볼 필요는 없다고 판단했다. 지도 아래 끝은 y≈920이다.
-- **설명 패널이 짧다.** 1080 기준 레일 패널 높이는 약 350px이라 인물 과제 목록과 근거 카드는 스크롤된다.
-- **문장 전환에 연출이 없다.** `textContent`만 바뀐다. 암전이나 페이드는 story.js의 몫으로 남겼다.
-- `:has()`(Chrome/Edge 105+)에 의존한다. 지원하지 않는 브라우저에서는 배지와 합성 표시가 둘 다 보이는 정도로만 달라진다.
-- 1920×1080과 1600×1000 두 크기에서 겹침이 없는 것만 확인했다. 1181~1366px 폭 노트북에서는 블록이 좁아져 패널이 더 짧아진다.
-- 폰트 스택은 기존 그대로다(로컬 임베딩 금지).
+- **지도 열 좌우에 빈 띠가 있다.** 지도는 높이에 맞춰 크기가 정해진다. 1920에서 지도 열은 1449px, 지도는 1337px이라 양옆에 약 56px 빈 띠가 남는다. 클로즈업에서 확대된 별은 이 띠까지 그려진다.
+- **1366×768에서는 장면마다 지도가 약간 흔들린다.** 보조 문장이 장면 0·1에서 3줄로 접혀 문장 띠가 10px 높아지고, 배율이 0.700과 0.714 사이를 오간다. 1920·1600에서는 모든 장면의 배율이 같다.
+- **장면 문장이 54px에서 44px로 작아졌다.** 문장이 hero가 아니라 지도 윗변의 띠가 됐기 때문이다. 문장보다 지도와 조작을 우선한 결과다.
+- **단계 막대가 조작 버튼을 사이에 두고 둘로 나뉜다.** 순서는 왼쪽에서 오른쪽으로 읽히지만 한 줄로 이어진 진행 막대는 아니다.
+- **설명 패널은 1920 기준 높이 약 760px이다.** 긴 근거 카드는 스크롤된다.
+- 배지를 숨길 때 `:has()`(Chrome/Edge 105+)를 쓴다. 지원하지 않는 브라우저에서는 배지와 합성 표시가 둘 다 보이는 정도로만 달라진다.
+- "UI가 지도와 겹치지 않음"은 viewBox 사각형과의 교차로만 판정했다. PJT 격자 칸·성운 이름·툴팁은 원래 지도 위에 있어야 하는 요소라 겹치는 게 맞다.
+- 1920×1080, 1600×1000, 1366×768 세 크기만 확인했다. 폰트 스택은 기존 그대로다.
 
 ## 검수 결과 (2026-09-14, 커밋 직전 워크트리)
 
@@ -75,11 +78,10 @@ story 모드 규칙(`body.story …`)은 한 글자도 바꾸지 않았다. `.ap
 | `pytest tests/test_nebula_{pipeline,http,fixture,deck}.py -q` | 38 passed, 7 subtests passed |
 | `node tests/nebula_q3.cjs` | PASS: Q3 public engine, search, split, grid, PJT entry, reload, story mode |
 | `node tests/nebula_presentation.cjs` | PASS: zero tasks, zero approvals, autoplay, first person, provenance, escaped unclassified PJT |
-| `node tests/nebula_browser.cjs /tmp/opus-demo-after` (합성 demo) | PASS: nebula scenes, matrix, network, tasks, evidence, mobile, review/category correction, extraction correction, stale review, offline |
-| `node tests/q3_story_check.cjs tests/q3_story_stub.js /tmp/opus-shots` | PASS: 9 beats 15764ms, reduced motion 1374ms |
-| `node tests/q3_story_check.cjs docs/q3-visual/story-claude/story.js …` (선택된 story) | PASS: 9 beats 34013ms, reduced motion 7753ms |
-| story 회귀 | 수정 전 템플릿(`fc89db0`)으로 같은 두 story 검수를 먼저 돌려 둔 9비트 스크린샷과 비교했다. stub 9장, story-claude 9장 **모두 바이트 단위로 같다.** |
-| 스크린샷 스크립트(1920×1080, 1600×1000) | 페이지 오류 0, 외부 요청 0, 가로·세로 스크롤 없음 |
+| `node tests/nebula_browser.cjs /tmp/opus-r2b-demo` (합성 demo) | PASS: nebula scenes, matrix, network, tasks, evidence, mobile, review/category correction, extraction correction, stale review, offline |
+| `node tests/q3_story_check.cjs tests/q3_story_stub.js /tmp/opus-shots2` | PASS: 9 beats 15218ms, reduced motion 1107ms |
+| `node tests/q3_story_check.cjs docs/q3-visual/story-claude/story.js …` (선택된 story) | PASS: 9 beats 33993ms, reduced motion 7377ms |
+| story 회귀 | 원래 템플릿(15ab077^)으로 찍은 9비트 스크린샷과 바이트 단위로 비교했다. story-claude는 9/9 같다. stub은 첫 실행에서 1-7 한 장만 달랐는데, 전환 중인 별의 위치 차이였다. 재실행에서는 9/9 같았고, 같은 템플릿으로 두 번 찍어도 1-7이 달라진다. 타이밍 흔들림이지 회귀가 아니다 |
 | 실명 노출 | 없음(합성 픽스처만 사용) |
 
-수정 전 템플릿에서도 같은 검사가 모두 통과했다(pytest 38 passed). 이번 변경으로 깨진 것은 없다.
+`pytest`는 이 워크트리에 `.venv`가 없어 옆 워크트리의 `.venv` 인터프리터로 돌렸다(`-m`이 현재 디렉터리의 `nebula`를 먼저 잡는다).
